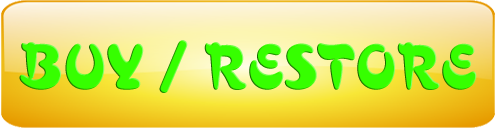
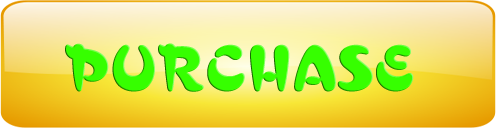
different specials for different levels

diff --git a/Classes/GameController.cpp b/Classes/GameController.cpp
@@ -23,9 +23,6 @@ using namespace CocosDenshion;
 void static stopBegin(PlayerObj * player);
 void static stopEnd(PlayerObj * player);
 
-void static hasteBegin(PlayerObj * player);
-void static hasteEnd(PlayerObj * player);
-
 void static strongBegin(PlayerObj * player);
 bool static strongHitByCar(PlayerObj * player, CCSprite * car);
 
@@ -61,10 +58,6 @@ void static doubleBegin(PlayerObj * player);
 char * userDataValue[CHECKBOX_TYPE_NUM];
 
 static GameController * controller;
-
-static char * specialNames[BAD_SPECIAL_NUM] = {"stop" , "strong" , "life" , "time" , "skull" ,
-                                        "double" , "bless" , "haste" , "police" , "slow" , "curse",
-                                        "bomb" , "allBad"};
 
 #if CC_TARGET_PLATFORM == CC_PLATFORM_IOS
 void onAdClicked(){
@@ -173,7 +166,6 @@ bool GameController::initUserData(cocos2d::CCDictionary *dataDict){
     CCArray * levels = (CCArray *)dataDict->objectForKey("levels");
 
     userData.maxLevel = levels->count();
-
     userData.levels.reserve(userData.maxLevel);
 
     for (int i = 0; i < userData.maxLevel; i++) {
@@ -229,6 +221,7 @@ bool GameController::initUserData(cocos2d::CCDictionary *dataDict){
     userData.rank = 0;
     userData.isLogedIn = false;
     userData.lastUploadedScore = -100000;
+    userData.topLevel = getLevelByScore(userData.topScore);
     //userData.currentLevel = 4;
 
     return true;
@@ -255,6 +248,9 @@ bool GameController::initPlaySceneData(cocos2d::CCArray *dataArray){
         data->playerAccSpeed = CCSTRING_FOR_KEY(dict , "player_start_acc_speed")->floatValue();
         data->playerStopAccSpeed = CCSTRING_FOR_KEY(dict , "player_stop_acc_speed")->floatValue();
         data->specialInterval = CCSTRING_FOR_KEY(dict , "special_interval")->floatValue();
+        data->goodMax = getSpecialIdForKey(CCSTRING_FOR_KEY(dict , "good_max"));
+        data->badMax = getSpecialIdForKey(CCSTRING_FOR_KEY(dict , "bad_max"));
+        //CCLOG("good %d, bad %d", data->goodMax , data->badMax);
 
         CCArray * ldArray = (CCArray *)dict->objectForKey("lane_descriptions");
         for (int j = 0; j < ldArray->count(); j++) {
@@ -284,6 +280,18 @@ bool GameController::initPlaySceneData(cocos2d::CCArray *dataArray){
     }
 
     return true;
+}
+
+int GameController::getSpecialIdForKey(CCString * key){
+    CCDictionary * specialDict = (CCDictionary *)dict->objectForKey("special_data");
+    CCArray * keys = specialDict->allKeys();
+    for(int i = 0 ; i < keys->count() ; i++){
+        CCString * temp = (CCString *)keys->objectAtIndex(i);
+        if(temp->isEqual(key)){
+            return i;
+        }
+    }
+    return 0;
 }
 
 bool GameController::initAnimationData(cocos2d::CCDictionary *dataDict){
@@ -424,20 +432,6 @@ bool GameController::initSpecialData(cocos2d::CCDictionary *dataDict){
     specialDatas[STOP]->end = &stopEnd;
     specialDatas[STOP]->hitByCar = NULL;
     specialDatas[STOP]->animation = animationData.specialStopAnim;
-
-    dict = (CCDictionary *)dataDict->objectForKey("haste");
-    specialDatas[HASTE] = new SpecialData;
-    specialDatas[HASTE]->duration = CCSTRING_FOR_KEY(dict, "duration")->floatValue();
-    specialDatas[HASTE]->life = CCSTRING_FOR_KEY(dict, "life")->floatValue();
-    specialDatas[HASTE]->imageName = CCSTRING_FOR_KEY(dict, "image_name");
-    specialDatas[HASTE]->userData1 = CCSTRING_FOR_KEY(dict, "speed_increase")->floatValue();
-    specialDatas[HASTE]->begin = &hasteBegin;
-    specialDatas[HASTE]->step = NULL;
-    specialDatas[HASTE]->end = &hasteEnd;
-    specialDatas[HASTE]->hitByCar = NULL;
-    specialDatas[HASTE]->animation = animationData.specialHasteAnim;
-    specialDatas[HASTE]->description = CCSTRING_FOR_KEY(dict, "description");
-    specialDatas[HASTE]->name = CCSTRING_FOR_KEY(dict, "name");
 
     dict = (CCDictionary *)dataDict->objectForKey("strong");
     specialDatas[STRONG] = new SpecialData;
@@ -598,17 +592,6 @@ void static stopEnd(PlayerObj * player){
     playScene->restartAllLanes();
 }
 
-//haste
-void static hasteBegin(PlayerObj * player){
-	SpecialData * data = GameController::getGameController()->getSpecialData(HASTE);
-    player->speedUp(data->userData1);
-}
-
-void static hasteEnd(PlayerObj * player){
-	SpecialData * data = GameController::getGameController()->getSpecialData(HASTE);
-    player->slowDown(data->userData1);
-}
-
 //strong
 void static strongBegin(PlayerObj * player){
     AnimationData * animData = GameController::getGameController()->getAnimationData();
@@ -729,7 +712,7 @@ void static blessBegin(PlayerObj * player){
 
     if(toss(specialData->userData1) == false) return;
     SpecialObj * specialObj = new SpecialObj();
-    playScene->addChild(specialObj->load(getRandom(0 , BLESS - 1)));
+    playScene->addChild(specialObj->load(BLESS));
     player->beginWithSpecial(specialObj);
 }
 void static blessEnd(PlayerObj * player){
@@ -797,7 +780,9 @@ void GameController::setUserData(const char * key, CheckboxType type , int value
 
 void GameController::levelUp(){
     userData.currentLevel++;
+
     userData.lastLevel = userData.currentLevel;
+    userData.topLevel = getLevelByScore(userData.topScore);
     CCDictionary * userDataDict = (CCDictionary *)dict->objectForKey("user_data");
     userDataDict->setObject(CCString::createWithFormat("%d", userData.lastLevel), "last_level");
     dict->setObject(userDataDict, "user_data");
@@ -1135,15 +1120,18 @@ void GameController::saveUser(const char * userName , const char * password){
 
 void GameController::recoverSpecialDurations(){
     CCDictionary * specialDict = (CCDictionary *)dict->objectForKey("special_data");
-    for(int i = 0 ; i < BAD_SPECIAL_NUM ; i++){
-        CCDictionary * dict = (CCDictionary *)specialDict->objectForKey(specialNames[i]);
+    CCArray * keys = specialDict->allKeys();
+    for(int i = 0 ; i < keys->count() ; i++){
+        //CCLOG("%s", ((CCString *)keys->objectAtIndex(i))->getCString());
+        CCDictionary * dict = (CCDictionary *)specialDict->objectForKey(
+                ((CCString *)keys->objectAtIndex(i))->getCString());
         specialDatas[i]->duration = CCSTRING_FOR_KEY(dict, "duration")->floatValue();
     }
 }
 
 void GameController::onPaymentError(){
     CCLOG("onPaymentError");
-    //setInfoLabel("Payment Error");
+    setInfoLabel("Payment Error");
     CCScene * currentScene = CCDirector::sharedDirector()->getRunningScene();
     if(currentScene && currentScene->getTag() == STARTUP_MENU_SCENE){
         StartMenuScene * startup = (StartMenuScene *)currentScene->getChildren()->objectAtIndex(0);

diff --git a/Classes/StartMenuScene.cpp b/Classes/StartMenuScene.cpp
@@ -18,6 +18,7 @@ typedef enum{
     TOP_SCORE,
     PVP,
     PURCHASE,
+    RESTORE,
 }BUTTON_TAG;
 
 typedef enum{
@@ -172,15 +173,21 @@ void StartMenuScene::initPurchaseMenu(){
     CCMenuItemImage * OK = CCMenuItemImage::create("return_normal.png", "return_selected.png" ,
     		this , menu_selector(StartMenuScene::okHandler));
     OK->setScale(0.7);
-    OK->setPosition(ccp(winSize.width*0.3, winSize.height * 0.15));
+    OK->setPosition(ccp(winSize.width*0.5, winSize.height * 0.15));
 
     CCMenuItemImage * purchase = CCMenuItemImage::create("purchase_normal.png", "purchase_selected.png" ,
     		this , menu_selector(StartMenuScene::purchaseHandler));
     purchase->setScale(0.7);
     purchase->setTag(PURCHASE);
-    purchase->setPosition(ccp(winSize.width*0.7, winSize.height * 0.15));
+    purchase->setPosition(ccp(winSize.width*0.5, winSize.height * 0.45));
 
-	purchaseMenu = CCMenu::create(OK , purchase , benefits , NULL);
+    CCMenuItemImage * restore = CCMenuItemImage::create("restore_normal.png", "restore_selected.png" ,
+            this , menu_selector(StartMenuScene::purchaseHandler));
+    restore->setScale(0.7);
+    restore->setTag(RESTORE);
+    restore->setPosition(ccp(winSize.width*0.5, winSize.height * 0.3));
+
+	purchaseMenu = CCMenu::create(OK , purchase , benefits , restore , NULL);
 	purchaseMenu->ignoreAnchorPointForPosition(false);
 	purchaseMenu->setPosition(ccp(winSize.width/2 , winSize.height*1.5));
     addChild(purchaseMenu);
@@ -487,10 +494,13 @@ CCTableViewCell * StartMenuScene::cellForScore(CCTableViewCell * cell, int idx){
 }
 
 CCTableViewCell * StartMenuScene::cellForLegends(CCTableViewCell *cell , int index){
-
     if (index > BAD_SPECIAL_NUM - 1) return NULL;
 
-    if(index > SPECIAL_NUM - 1) index+=1;
+    PlaySceneData * playSceneData = GameController::getGameController()->getPlaySceneData(userData->topLevel);
+
+    if(index > playSceneData->goodMax){
+        index = index - playSceneData->goodMax + SPECIAL_NUM;
+    }
 
     SpecialData * data = GameController::getGameController()->getSpecialData(index);
 
@@ -543,7 +553,10 @@ CCTableViewCell * StartMenuScene::cellForLegends(CCTableViewCell *cell , int ind
 
 unsigned int StartMenuScene::numberOfCellsInTableView(CCTableView *table){
     if(table == scoreTable) return MAX_RANKS;
-    if(table == legendsTable) return BAD_SPECIAL_NUM - 1;
+    if(table == legendsTable){
+        PlaySceneData * playSceneData = GameController::getGameController()->getPlaySceneData(userData->topLevel);
+        return playSceneData->goodMax + 1 + playSceneData->badMax - SPECIAL_NUM;
+    }
 }
 
 CCSize StartMenuScene::tableCellSizeForIndex(CCTableView *table, unsigned int idx){
@@ -908,7 +921,9 @@ void StartMenuScene::changeSoundSetting(CheckboxType type){
 
 void StartMenuScene::enableButtonsForIap(bool enable){
     CCMenuItem * purchase = (CCMenuItem *)purchaseMenu->getChildByTag(PURCHASE);
+    CCMenuItem * restore = (CCMenuItem *)purchaseMenu->getChildByTag(RESTORE);
     if(purchase) purchase->setEnabled(enable);
+    if(restore) restore->setEnabled(enable);
 }
 
 bool StartMenuScene::onTextFieldAttachWithIME(cocos2d::CCTextFieldTTF *sender){

diff --git a/Classes/SpecialObj.cpp b/Classes/SpecialObj.cpp
@@ -10,7 +10,10 @@
 
 SpecialObj::SpecialObj() : timer_count(0) , taken(false) , expired(false) {
 	// TODO Auto-generated constructor stub
-
+    UserData * userData = GameController::getGameController()->getUserData();
+    PlaySceneData * playSceneData = GameController::getGameController()->getPlaySceneData(userData->currentLevel);
+    goodMax = playSceneData->goodMax;
+    badMax = playSceneData->badMax;
 }
 
 SpecialObj::~SpecialObj() {
@@ -18,7 +21,7 @@ SpecialObj::~SpecialObj() {
 }
 
 B2Sprite * SpecialObj::load(bool left2right, cocos2d::CCPoint initPos, float speed, Lane *lane , vector<int> * carNumbers){
-    specialId = getRandom(SPECIAL_NUM + 1, BAD_SPECIAL_NUM - 1);
+    specialId = getRandom(SPECIAL_NUM + 1, badMax);
     specialData = GameController::getGameController()->getSpecialData(specialId);
     int carNumber = getRandom(0, carNumbers->size()-1);
     CCString * carName = CCString::createWithFormat("car%d.png", carNumbers->at(carNumber));
@@ -34,7 +37,7 @@ B2Sprite * SpecialObj::load(bool left2right, cocos2d::CCPoint initPos, float spe
 }
 
 B2Sprite * SpecialObj::load(cocos2d::CCPoint initPos){
-    specialId = getRandom(0, SPECIAL_NUM - 1);
+    specialId = getRandom(0, goodMax);
     specialData = GameController::getGameController()->getSpecialData(specialId);
     GameObj::load(specialData->imageName->getCString() , b2_kinematicBody , SPECIAL);
     //gameObj->runAction(CCRepeatForever::create(CCAnimate::create(specialData->animation)));
@@ -43,7 +46,9 @@ B2Sprite * SpecialObj::load(cocos2d::CCPoint initPos){
     return gameObj;
 }
 
-B2Sprite * SpecialObj::load(int specialId){
+B2Sprite * SpecialObj::load(int exceptId){
+    int specialId = 0;
+    if(goodMax <= exceptId) specialId = getRandom(0 , goodMax - 1);
     this->specialId = specialId;
     specialData = GameController::getGameController()->getSpecialData(specialId);
     GameObj::load(specialData->imageName->getCString() , b2_kinematicBody , SPECIAL);
@@ -54,7 +59,7 @@ B2Sprite * SpecialObj::load(int specialId){
 }
 
 void SpecialObj::begin(PlayerObj *player){
-	if(specialId < SPECIAL_NUM){
+	if(specialId <= SPECIAL_NUM){
 		gameObj->setVisible(false);
 		gameObj->setPosition(ccp(-1000 , -1000));
 	}else{

diff --git a/Classes/GameController.h b/Classes/GameController.h
@@ -26,16 +26,16 @@ typedef enum{
 	GAME_OVER_SCENE,
 }SceneTag;
 
+//must be in the same order with game_controller.plist
 typedef enum{
     STOP = 0,
+    TIME,
     STRONG,
     LIFE,
-    TIME,
     SKULL,
     DOUBLE,
     BLESS,
-    SPECIAL_NUM,
-    HASTE = SPECIAL_NUM,
+    SPECIAL_NUM = BLESS,
     POLICE = SPECIAL_NUM + 1,
     SLOW,
     CURSE,
@@ -100,6 +100,8 @@ typedef struct{
     int maxDuration;
     int durationIncrease;
     float specialInterval;
+    int goodMax;
+    int badMax;
     vector<LaneDescription *> laneDescriptions;
 }PlaySceneData;
 
@@ -155,6 +157,7 @@ typedef struct{
     CheckboxType sound;
     CheckboxType controllerPosition;
 	int topScore;
+	int topLevel;
     int lastLevel;
 	int lastScore;
     int currentLevel;
@@ -290,6 +293,7 @@ private:
     ScoreBoardService *scoreBoardService;
     int getLevelByScore(int score);
     void setInfoLabel(const char * info);
+    int getSpecialIdForKey(CCString * key);
 };
 
 #endif /* defined(__crossRoad__GameController__) */

diff --git a/Classes/ControlMenu.cpp b/Classes/ControlMenu.cpp
@@ -322,7 +322,7 @@ void ControlMenu::levelUp(){
     menu->setPosition(ccp(winSize.width/2 , winSize.height*1.5));
     AnimationData * animData = GameController::getGameController()->getAnimationData();
     SimpleAudioEngine::sharedEngine()->playEffect(animData->levelupSoundImage->getCString());
-    GameController::getGameController()->setLastScore(score , false);
+    GameController::getGameController()->setLastScore(score , true);
     GameController::getGameController()->setJustFailed(false , false);
     GameController::getGameController()->levelUp();
 }
@@ -349,6 +349,7 @@ void ControlMenu::increaseDuration(int delta){
     if(seconds > maxDuration){
         maxDuration = seconds;
     }
+    unschedule(schedule_selector(ControlMenu::resumeDuration));
     scheduleOnce(schedule_selector(ControlMenu::resumeDuration) , 15);
     updateGameTime();
 }

diff --git a/Classes/PlayObj.cpp b/Classes/PlayObj.cpp
@@ -290,7 +290,7 @@ void PlayerObj::beginWithSpecial(SpecialObj * specialObj){
         return;
     }
 
-    if (hasSpecial(CURSE) != NULL && specialObj->getSpecialId() < SPECIAL_NUM
+    if (hasSpecial(CURSE) != NULL && specialObj->getSpecialId() <= SPECIAL_NUM
     		&& specialObj->getSpecialId() != BLESS) {
         return;
     }
@@ -338,7 +338,7 @@ bool PlayerObj::enoughSpecials(int specialId){
 }
 
 SpecialObj * PlayerObj::hasSpecial(int specialId){
-	if(specialId < SPECIAL_NUM){
+	if(specialId <= SPECIAL_NUM){
 		int size = specials.size();
 	    for (int i = 0; i < size; i++) {
 	        if (specials[i]->getSpecialId() == specialId) {

diff --git a/Classes/SpecialObj.h b/Classes/SpecialObj.h
@@ -16,7 +16,7 @@ public:
 	virtual ~SpecialObj();
     virtual B2Sprite * load(bool left2right , CCPoint initPos , float speed , Lane * lane , vector<int> * carNumbers);
     virtual B2Sprite * load(CCPoint initPos);
-    virtual B2Sprite * load(int specialId);
+    virtual B2Sprite * load(int exceptId);
     virtual void begin(PlayerObj * player);
     virtual void step(PlayerObj * player);
     virtual void end(PlayerObj * player);
@@ -35,6 +35,8 @@ protected:
     float timer_count;
     bool taken;
     bool expired;
+    int goodMax;
+    int badMax;
 };
 
 #endif /* SPECIALOBJ_H_ */
